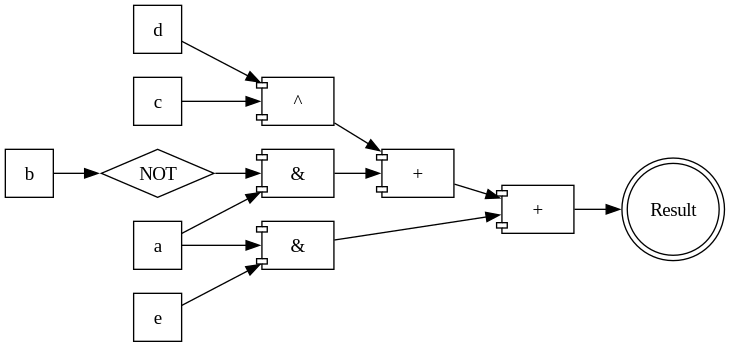
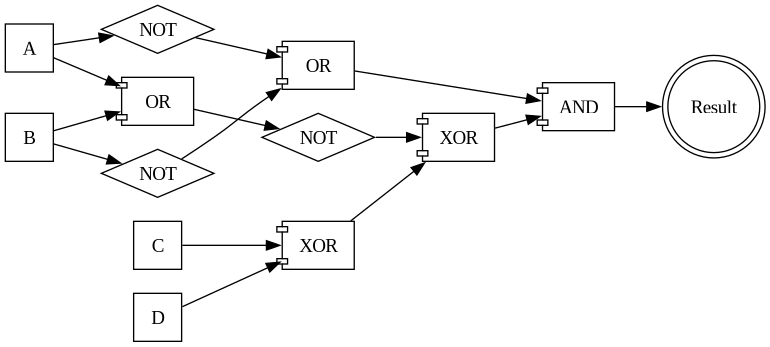
added diagram

diff --git a/expression.py b/expression.py
@@ -115,6 +115,7 @@ class BooleanExpression:
         dot.attr(rankdir='LR')
         node_count = 0
         stack = []
+        tokenDict = {'&': 'AND', '^': 'XOR', '+': 'OR', '~': 'NOT'}
         for token in self.postfix:
             if token in self.variables:
                 node_name = f'var_{token}'
@@ -130,8 +131,8 @@ class BooleanExpression:
             elif token in ('&', '+', '^'):
                 right = stack.pop()
                 left = stack.pop()
-                node_name = f'{token.lower()}_{node_count}'
-                dot.node(node_name, token, shape='component')
+                node_name = f'{tokenDict[token]}_{node_count}'
+                dot.node(node_name, tokenDict[token], shape='component')
                 # edge connects input nodes to gates i think
                 dot.edge(left, node_name)
                 dot.edge(right, node_name)
